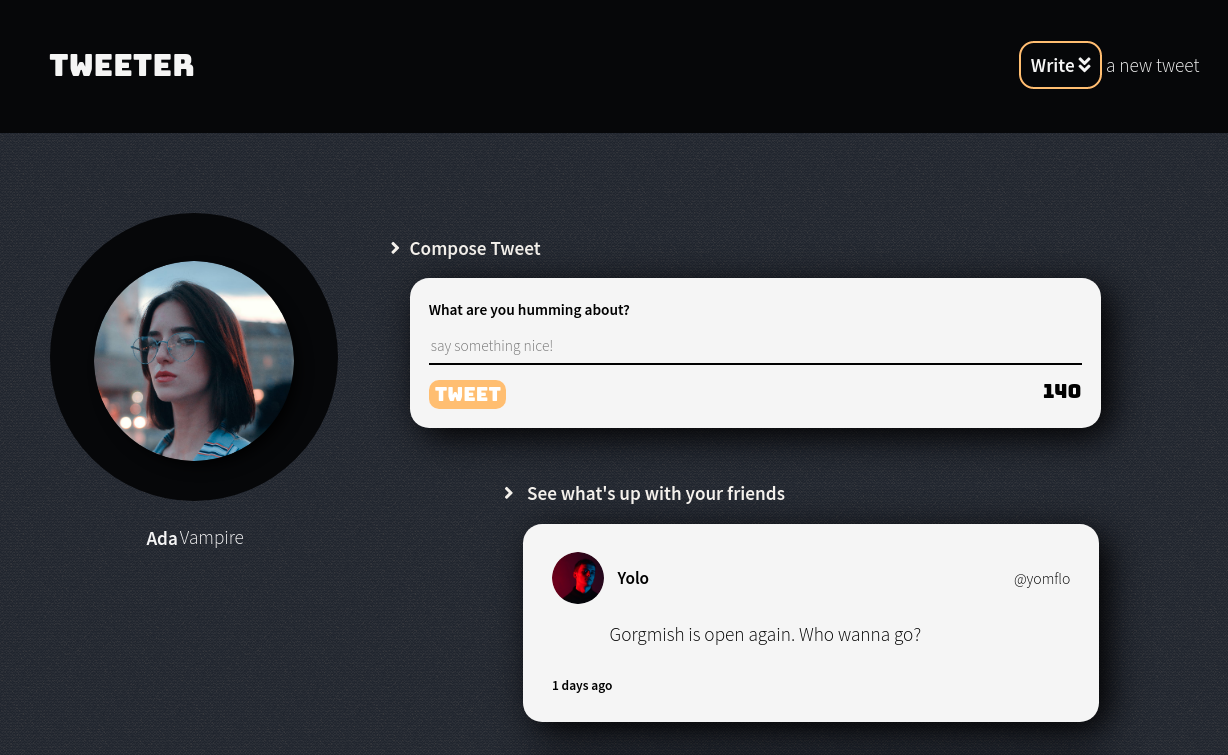
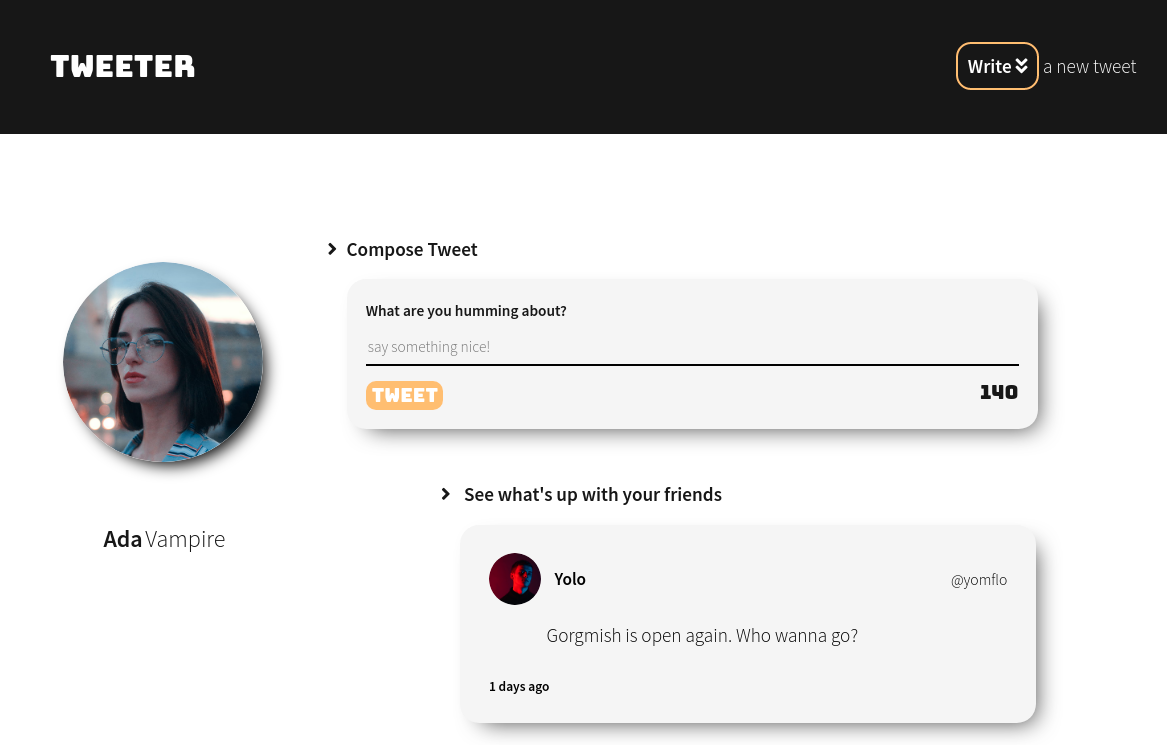
update colors schemes, font and warning msg

diff --git a/public/styles/warning.css b/public/styles/warning.css
@@ -9,13 +9,53 @@
 }
 
 #warning-too-short {
-  background-color: hsl(0, 0%, 10%);
+  position: fixed;
+ color: #171717;
   padding: 0.5em;
   border-radius: 1.5em;
+  font-size: 0.7em;
+  top: 24em;
+  right: 7em;
 }
 
-#warning-too-long {
-  background-color: hsl(0, 0%, 10%);
+#warning-too-long { 
+  position: fixed;
+  color: #171717;
   padding: 0.5em;
   border-radius: 1.5em;
+  font-size: 0.7em;
+  top: 25em;
+  right: 7em;
+  
 }
+
+@media only screen and (min-width: 1025px) {
+  #warning-too-short {
+    font-size: 0.7em;
+    top: 187px;
+    right: 646px;
+
+  }
+  
+  #warning-too-long { 
+    font-size: 0.7em;
+    top: 187px;
+    right: 646px;
+
+  }
+  
+}
+@media only screen and (max-width: 700px) {
+  #warning-too-short {
+    font-size: 0.7em;
+    top: 44em;
+    right: 2em;
+  }
+  #warning-too-long { 
+    font-size: 0.7em;
+    top: 44em;
+    right: 2em;
+  }
+  
+}
+

diff --git a/public/styles/new-tweet.css b/public/styles/new-tweet.css
@@ -71,16 +71,16 @@ textarea {
 .input {
   width: 36em;
   background-color: #f5f5f5;
-  color: black;
+  color: #171717;
   display: flex;
   flex-direction: column;
   font-size: 0.8em;
   margin: 1em 1em 2em 1em;
   padding: 1em;
   border-radius: 1em;
-  -webkit-box-shadow: 10px 9px 36px 0px rgba(0, 0, 0, 1);
-  -moz-box-shadow: 10px 9px 36px 0px rgba(0, 0, 0, 1);
-  box-shadow: 10px 9px 36px 0px rgba(0, 0, 0, 1);
+  -webkit-box-shadow: 10px 10px 23px -11px rgba(0,0,0,0.75);
+  -moz-box-shadow: 10px 10px 23px -11px rgba(0,0,0,0.75);
+  box-shadow: 10px 10px 23px -11px rgba(0,0,0,0.75);
 }
 
 .button-counter {
@@ -116,9 +116,9 @@ textarea {
   }
   .new-tweet h2 {
     display: inline;
-    background-color: #ffc068;
+    background-color: #171717;
     padding: 0.6em;
-    color: #232121;
+    color: #f5f5f5;
     border-radius: 15px;
   }
   .subtitle {

diff --git a/public/styles/tweet-feed.css b/public/styles/tweet-feed.css
@@ -8,15 +8,15 @@
   margin: 1em 1em 2em 1em;
   padding: 1.5em;
   border-radius: 1em;
-  -webkit-box-shadow: 10px 9px 36px 0px rgb(0 0 0);
-  -moz-box-shadow: 10px 9px 36px 0px rgba(0, 0, 0, 1);
-  box-shadow: 10px 9px 36px 0px rgb(0 0 0);
+  -webkit-box-shadow: 10px 10px 23px -11px rgba(0,0,0,0.75);
+-moz-box-shadow: 10px 10px 23px -11px rgba(0,0,0,0.75);
+box-shadow: 10px 10px 23px -11px rgba(0,0,0,0.75);
   transition: box-shadow 200ms;
 }
 .tweet-feed:hover {
-  -webkit-box-shadow: 10px 10px 19px 11px rgba(0, 0, 0, 1);
-  -moz-box-shadow: 10px 10px 19px 11px rgba(0, 0, 0, 1);
-  box-shadow: 10px 10px 19px 11px rgba(0, 0, 0, 1);
+  -webkit-box-shadow: 10px 10px 23px -5px rgba(0,0,0,0.75);
+  -moz-box-shadow: 10px 10px 23px -5px rgba(0,0,0,0.75);
+  box-shadow: 10px 10px 23px -5px rgba(0,0,0,0.75);
 }
 .tweet-feed header {
   font-size: 0.9em;

diff --git a/public/styles/header.css b/public/styles/header.css
@@ -13,9 +13,6 @@
   display: flex;
   align-items: center;
   flex-direction: column;
-  background-color: #07080a;
-  background-image: url("https://www.transparenttextures.com/patterns/az-subtle.png");
-  color: #f5f5f5;
 }
 
 .username span {
@@ -26,6 +23,7 @@
 .username h2 {
   margin-top: -0.5em;
   font-weight: 300;
+  font-size: 1em;
 }
 
 @media only screen and (min-width: 1025px) {
@@ -45,8 +43,7 @@
 @media only screen and (max-width: 700px) {
   .user-header {
     margin-top: 1em;
-    background-color: hsl(223, 17%, 16%);
-    background-image: url("https://www.transparenttextures.com/patterns/binding-dark.png");
+    background-color: #FFFFFF;
   }
   .user-header img {
     width: 11em;

diff --git a/public/styles/nav.css b/public/styles/nav.css
@@ -14,11 +14,11 @@ nav {
   font-family: "Bungee", cursive;
   display: flex;
 
-  background-color: #323645;
-  color: #f5f5f5;
+  background-color: #171717;
+  color: #FFFFFF;
 
-  background-color: #07080a;
-  background-image: url("https://www.transparenttextures.com/patterns/az-subtle.png");
+
+  
   justify-content: space-between;
   align-items: center;
   position: fixed;
@@ -38,6 +38,7 @@ nav {
 }
 
 .logo {
+
   font-size: 30px;
 }
 .new-tweet-button {
@@ -51,6 +52,7 @@ nav {
 
 @media only screen and (max-width: 700px) {
   nav {
+    color:#171717;
     position: fixed;
     display: flex;
     background-color: transparent;

diff --git a/public/styles/layout.css b/public/styles/layout.css
@@ -21,20 +21,21 @@ button:focus {
   outline: none;
 }
 h2 {
+  color: #171717;
   font-size: 0.8em;
 }
 
 body {
-  color: #f4f1ec;
-  background-color: #222630;
-  background-image: url("https://www.transparenttextures.com/patterns/binding-dark.png");
+
+  background-color: #FFFFFF;
+  
   font-size: 24px;
   font-family: "Source Sans Pro", sans-serif;
 }
 
 .container {
-  background-color: hsl(223, 17%, 16%);
-  background-image: url("https://www.transparenttextures.com/patterns/binding-dark.png");
+  background-color: #FFFFFF;
+
   display: flex;
   flex-direction: column;
   align-items: center;

diff --git a/public/index.html b/public/index.html
@@ -76,7 +76,9 @@
       <!-- Page-specific (main) content here -->
       <!-- User's new tweeter container-->
       <main class="container">
-        <div class="warning-box"></div>
+        <div class="warning-box">
+        
+        </div>
         <section class="new-tweet">
           <div class="subtitle">
             <h2 id="compose-tweet-button">

diff --git a/server/index.js b/server/index.js
@@ -2,7 +2,7 @@
 
 // Basic express setup:
 
-const PORT = 5050;
+const PORT = 7070;
 const express = require("express");
 const bodyParser = require("body-parser");
 const app = express();
